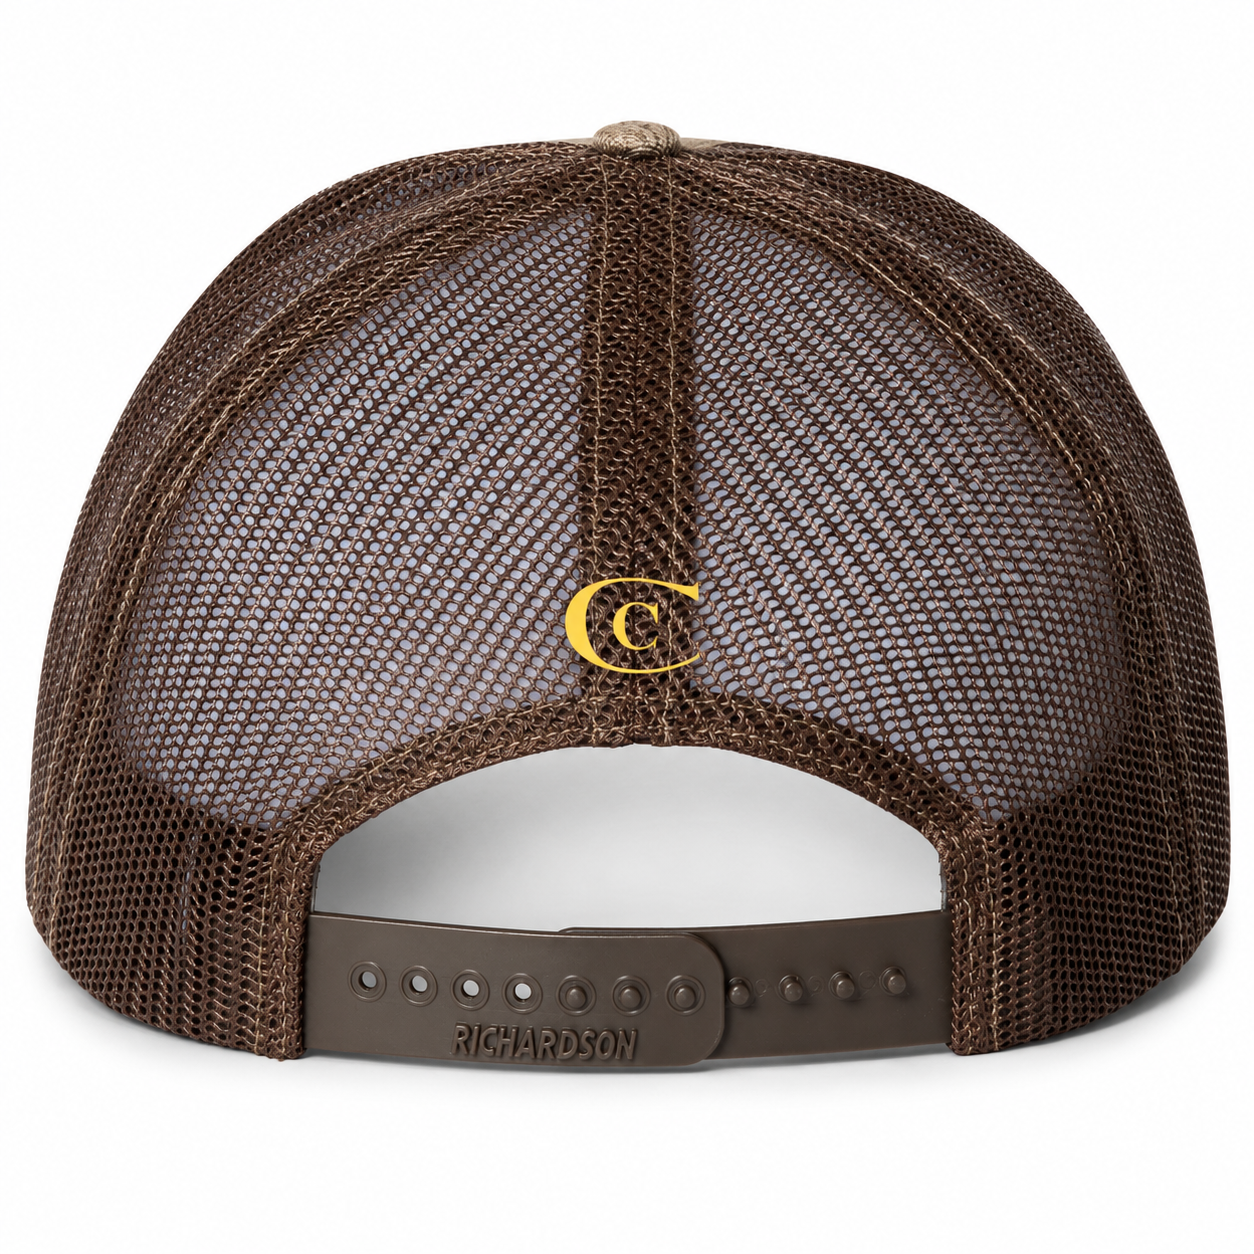
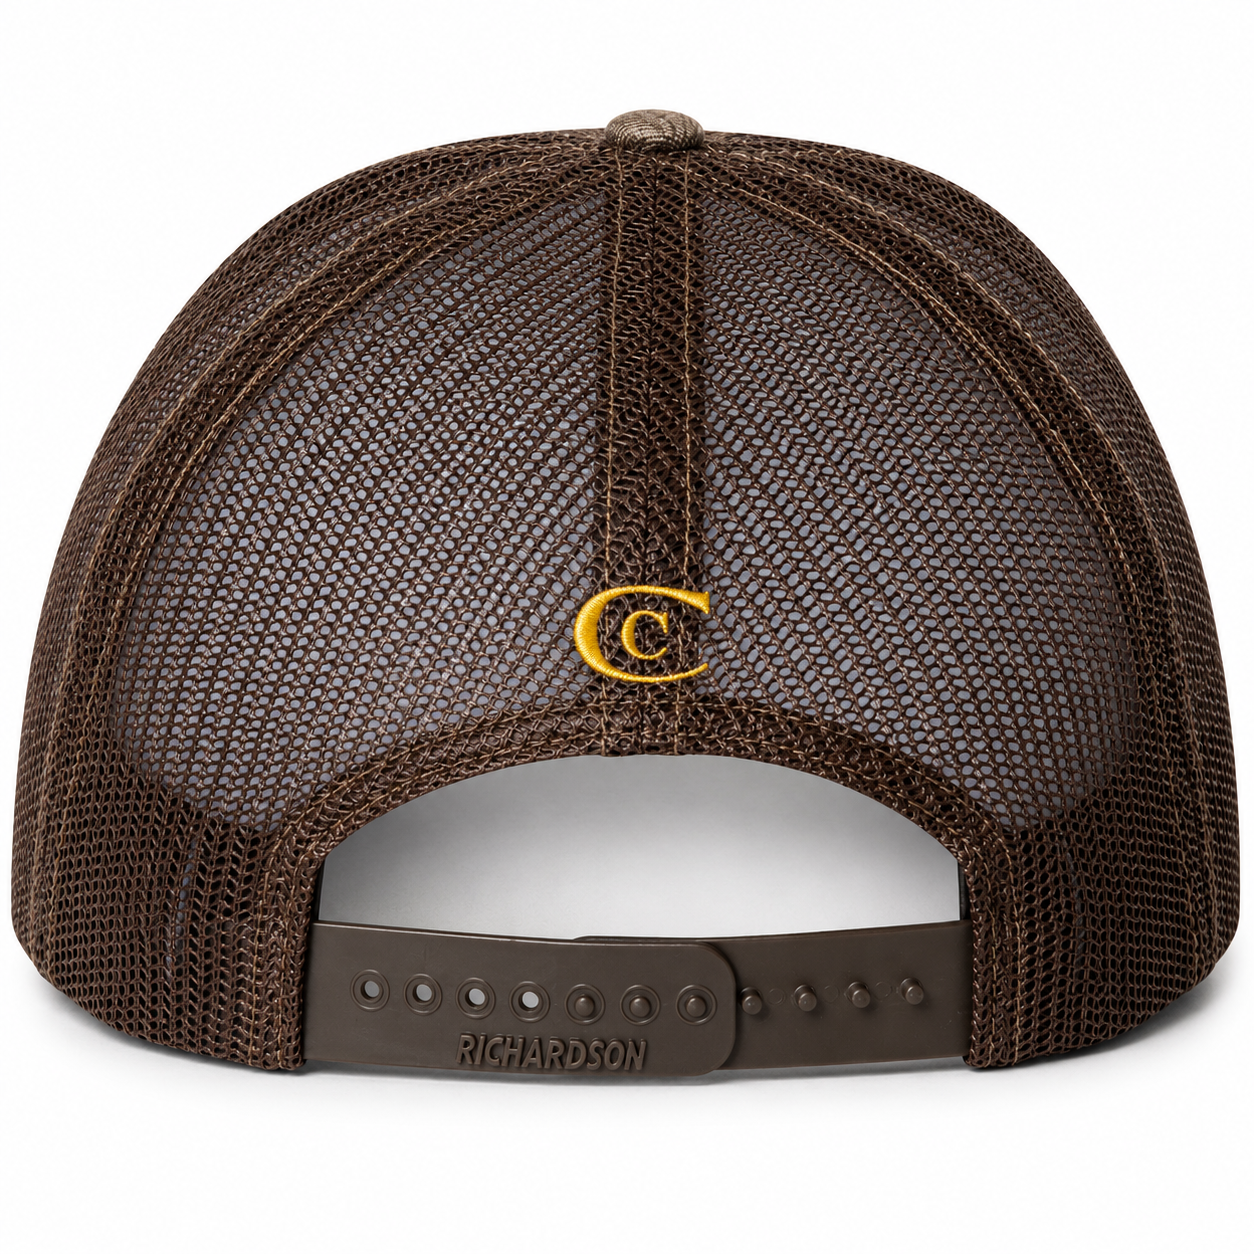
Update Black/Gold hat back photo; fix cache hash to catch in-place edits
- BLACK_GOLD_BACK_MOCKUP.png replaced with the corrected version (Cc logo
  repositioned) and re-optimized.
- The service worker cache-name hash previously only covered the asset
  *list* plus a couple of text files' content, so swapping an image's
  bytes while keeping its filename (exactly what just happened) wouldn't
  bust the cache for returning visitors. Switched to hashing every asset
  file's actual content. Also fixes a stray pair of null bytes that had
  gotten into build-products.mjs (were making the file register as
  "binary" to grep/file — harmless to Node but broke text search).

diff --git a/sw.js b/sw.js
@@ -1,6 +1,6 @@
 /* Close Community — Service Worker (offline support) */
 /* Auto-generated by scripts/build-products.mjs — do not hand-edit ASSETS */
-const CACHE = 'cc-b078f950';
+const CACHE = 'cc-28b46c63';
 const ASSETS = [
   './',
   'index.html',